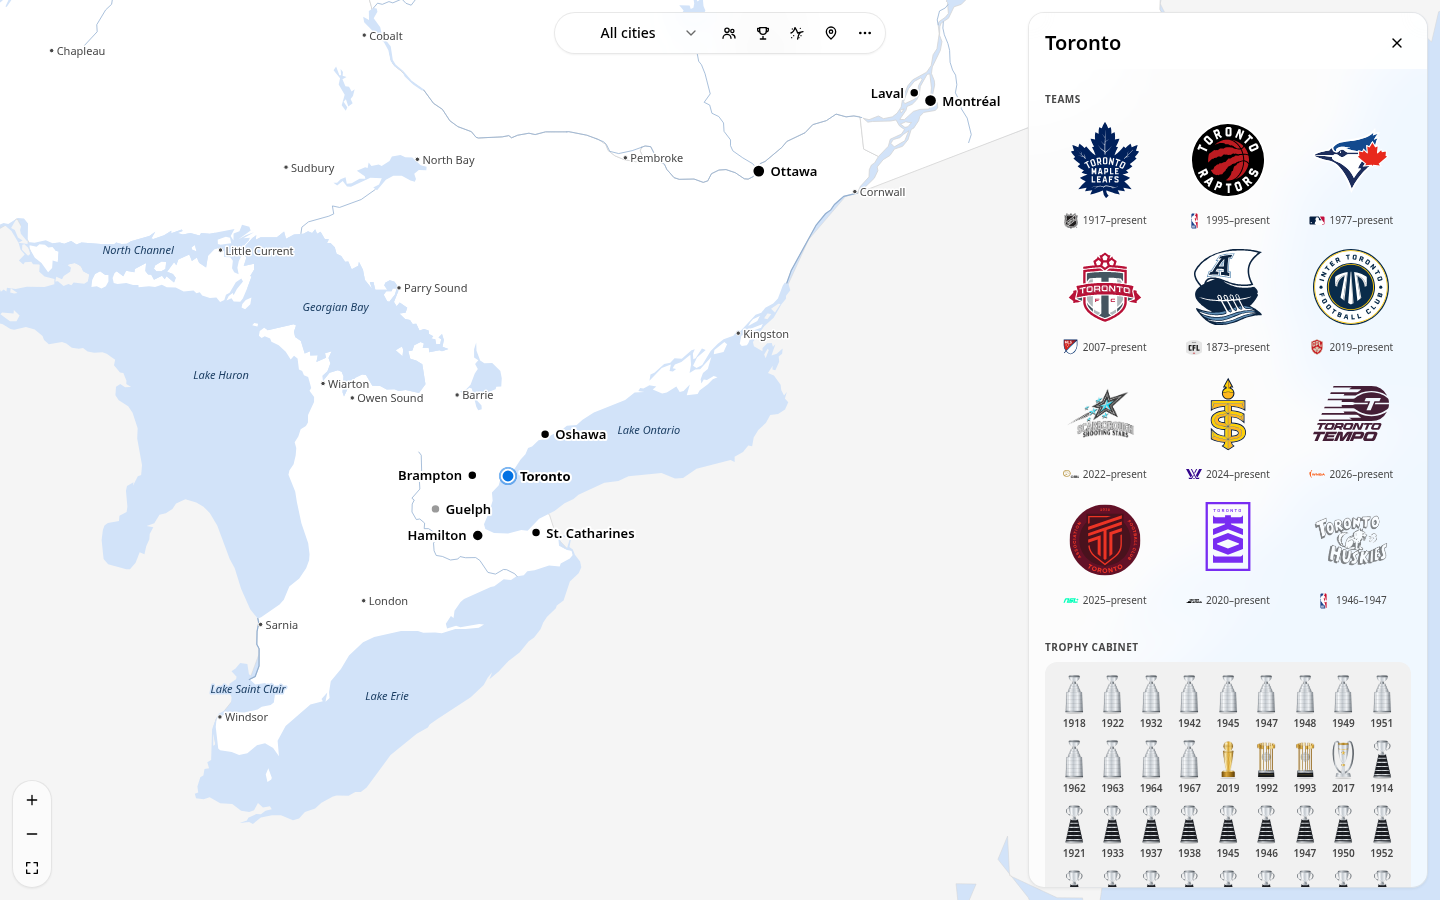
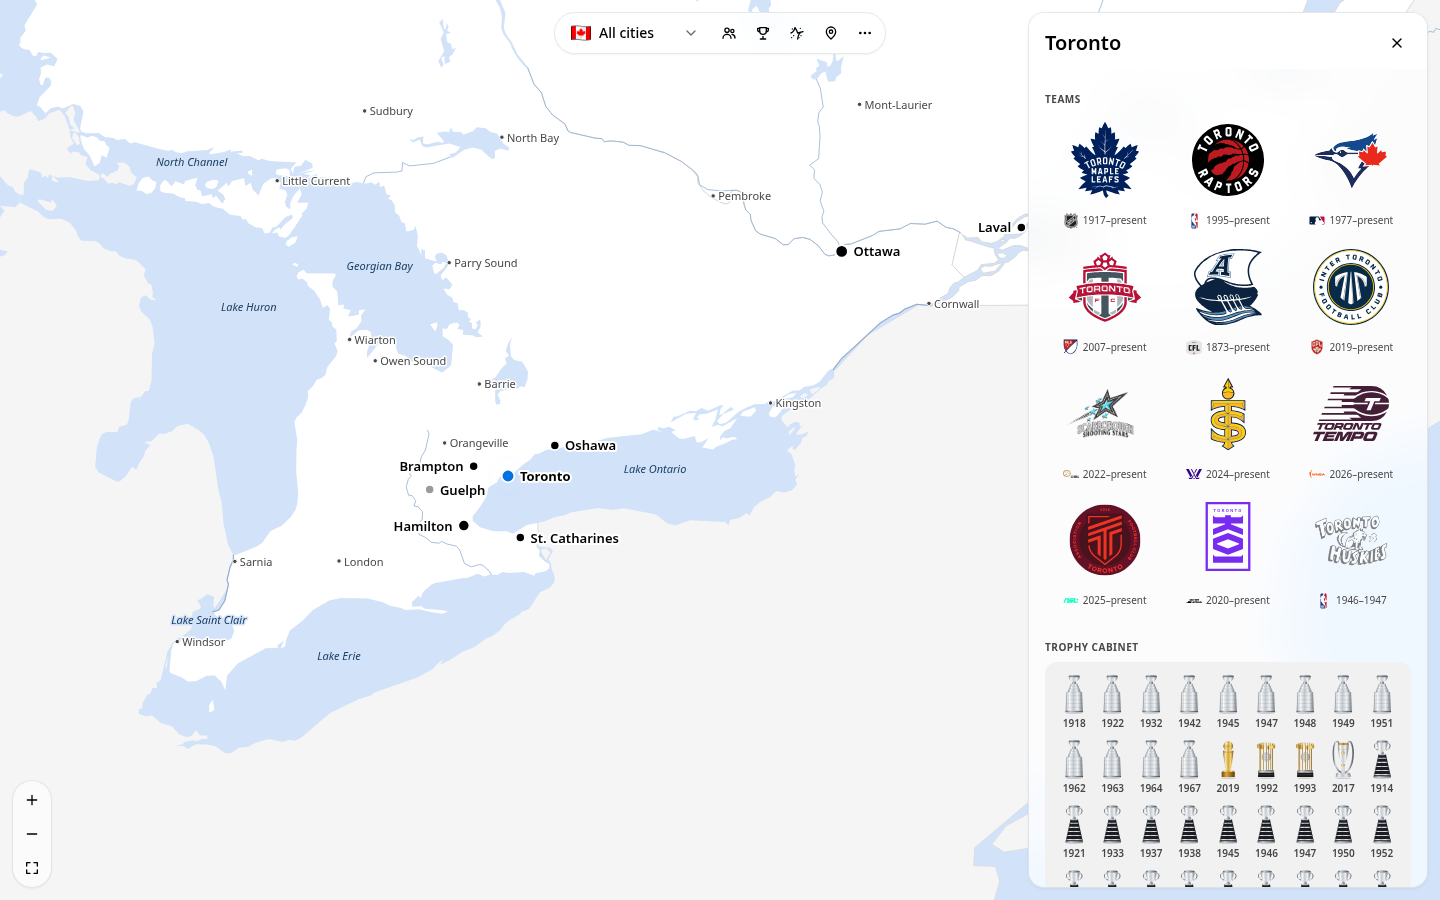
README: fresh screenshots and up-to-date features
- All 13 screenshots retaken from the current build (Mercator map, 1995
  Raptors takeover, flag, lightbox-era carousels, absolute-distance pin
  colours, new mobile layouts), plus two new ones: a lightbox and the phone's
  3D venue still with 'View in 3D'.
- Features rewritten for what changed: web-map projection and world zoom,
  mainland takeover, fixed-size animated dots, pin colours by real distance,
  the lightbox and its source links, on-demand 3D with stills, swipeable
  full-width carousels on phones.
- Project layout adds research/, lib/ and public/sportslogos/; credits lines
  match where photos and SportsLogos.net images are now credited.

diff --git a/README.md b/README.md
@@ -10,24 +10,24 @@ An interactive map of Canadian professional sports: every NHL, NBA, MLB, MLS, CF
 
 ### The map
 
-- **Canada, full screen.** The map opens on the band of sports cities across southern Canada, with the rest of the world filled in around it. Zoom in for a finer coastline, rivers, lakes, nearby towns and the names of seas, lakes, mountain ranges and islands.
-- **City dots.** Each sports city is a solid dot with its name: dark for cities with active teams, light grey for cities whose teams are all gone, blue (with a pulse) when selected. Nearby cities merge into one dot until you zoom in.
-- **League filter.** One dropdown shows all cities or a single league. With a league picked, a city that has one team in it opens straight to that team.
-- **Logo takeover.** When a team is the only current Canadian team in its league (the Raptors, the Blue Jays, the Tempo), its page fills Canada with its logo.
-- **Share links with their own previews.** Every team, city, league and map layer has a share link (for example [`/team/toronto-raptors/`](https://latxh.github.io/canada-sports-map/team/toronto-raptors/)) with its own preview card on X, Reddit, iMessage, Discord and Slack. Share hands out the link for what you're looking at (the native share sheet on phones); the league, layer and pin are also kept in the URL.
+- **Canada on a familiar web map.** The map opens on the band of sports cities across southern Canada, with the rest of the world around it. Zoom in for a finer coastline, rivers, lakes, nearby towns and the names of seas, lakes, mountain ranges and islands; zoom out to see the whole world.
+- **City dots.** Each sports city is a dot with its name: dark for cities with active teams, light grey for cities whose teams are all gone, blue with a pulse when selected. Nearby cities merge into one dot until you zoom in.
+- **League filter.** One dropdown shows all cities or a single league. With a league picked, a city with one team in it opens straight to that team.
+- **Logo takeover.** When a team is the only current Canadian team in its league, filtering to that league or opening its page fills mainland Canada with its logo (the Raptors get their original 1995 logo).
+- **Share links with their own previews.** Every team, city, league and map layer has its own link (for example [`/team/toronto-raptors/`](https://latxh.github.io/canada-sports-map/team/toronto-raptors/)) with a preview card made for it on X, Reddit, iMessage, Discord and Slack. Share hands out the link for what you're looking at, using the native share sheet on phones.
 
-| City panel with a 3D venue | Logo takeover |
+| City panel | Logo takeover |
 | --- | --- |
-| ![Toronto: teams, trophy cabinet and venues](docs/desktop-city.png) | ![The Raptors logo filling Canada](docs/takeover.png) |
+| ![Toronto: its teams and trophy cabinet](docs/desktop-city.png) | ![The 1995 Raptors logo filling Canada](docs/takeover.png) |
 
 ### Map layers
 
-Four round toggles sit beside the league filter; one is on at a time. The first three are living, ordered-dither patterns that ripple out from each city and twinkle (they hold still if you prefer reduced motion), drawn as part of the map so they move with it as you pan and zoom.
+Four round toggles sit beside the league filter, one on at a time. The first three are animated dot patterns that ripple out from each city and twinkle, drawn as part of the map so they move with it, with the dots staying the same small size at every zoom. They hold still if you prefer reduced motion.
 
-- **Population**: every one of Canada's 152 metro areas and agglomerations, sized by its 2021 Census population.
-- **Championships**: gold around each city, sized by the titles its teams have won, with the count.
+- **Population**: all 152 of Canada's metro areas and agglomerations, sized by 2021 Census population.
+- **Championships**: gold around each city, sized by the titles its teams have won.
 - **Closest team**: every spot in Canada coloured by its nearest team. Hover or tap for the team and the distance.
-- **Drop a pin**: tap anywhere (or use your location) and arcs fly to every city on the map, coloured by distance (green nearby, through yellow, to red from about 4,500 km away, so a pin far from Canada turns them all orange and red), with the nearest cities and the farthest one listed in kilometres.
+- **Drop a pin**: tap anywhere, or use your location, and arcs fly to every city on the map. They're coloured by real distance: green nearby, through yellow, to red from about 4,500 km, so a pin far from Canada turns them all red. A card lists the nearest cities and the farthest one.
 
 | Closest team (NHL) | Population |
 | --- | --- |
@@ -37,23 +37,26 @@ Four round toggles sit beside the league filter; one is on at a time. The first 
 
 ### City and team panels
 
-- **City**: its teams as logo tiles (league and years underneath), a trophy cabinet with one trophy per title, and its active venues in a dropdown, each with a 3D model (or a photo) and cards for year opened, capacity, surface and roof.
-- **Team**: a hero card, the trophy cabinet, every venue the team has called home, carousels of logos, uniforms and playing surfaces through the years (from SportsLogos.net, used with permission), a photo carousel, and links to Wikipedia and logo archives. Opened from a city, it has a back button to that city.
+- **City**: its teams as logo tiles with league and years, a trophy cabinet with one trophy per title, and its active venues, each with a 3D model (or a photo) and its year opened, capacity, surface and roof.
+- **Team**: a hero card, the trophy cabinet, every venue the team has called home, and carousels of its logos, uniforms and playing surfaces through the years (from SportsLogos.net, used with permission), plus photos and links to Wikipedia and its full logo history. Opened from a city, it has a back button to that city.
+- **Lightbox**: tap any logo, uniform, court, rink or photo to see it large over the app, step through the rest of that carousel, and follow its source link.
 - **Trophies**: original illustrations of all twelve championship trophies, drawn from photos of the real ones.
 
-| Team page | Uniforms, rinks and photos |
+| Team page | Logos, uniforms, rinks and photos |
 | --- | --- |
 | ![The Montréal Canadiens' page](docs/desktop-team.png) | ![Carousels on the Canadiens' page](docs/desktop-team-carousels.png) |
 
+![A Raptors uniform open in the lightbox, with the app behind it](docs/lightbox.png)
+
 ### 3D venues
 
-Each of the 24 stadiums and arenas that NHL, NBA, MLB, MLS, CFL and CPL teams play in today has its own hand-built, low-poly model, drawn to scale from OpenStreetMap footprints and reference photos. Rogers Centre's roof opens and closes, BC Place's roof gathers under its 36 masts, and fields switch markings for the sport you're looking at. Models open full screen. On phones, a pre-rendered still shows first and the 3D model loads when you tap **View in 3D**; desktops load it as soon as the card scrolls into view, and it only animates while it's on screen.
+Each of the 24 stadiums and arenas that NHL, NBA, MLB, MLS, CFL and CPL teams play in today has its own hand-built, low-poly model, drawn to scale from OpenStreetMap footprints and reference photos. Rogers Centre's roof opens and closes, BC Place's roof gathers under its 36 masts, and fields switch markings for the sport you're looking at. Desktops load the model when its card scrolls into view; phones show a pre-rendered still until you tap **View in 3D**. Models open full screen, and only animate while they're on screen.
 
 ![The 24 current venues as low-poly 3D models](docs/stadium-models.jpg)
 
 ### Link-preview cards
 
-Each share link shows a card made for it: a team's logo, league, years and trophies beside its territory on the map; a city's teams around a glow on its spot; a league's Canadian teams and the closest-team map for that league; or a full map for each layer.
+Each share link has a card made for it: a team's logo, league, years and trophies beside its territory on the map; a city's teams around a glow on its spot; a league's Canadian teams on its closest-team map; or a full map for each layer.
 
 | Team | City | League |
 | --- | --- | --- |
@@ -61,11 +64,11 @@ Each share link shows a card made for it: a team's logo, league, years and troph
 
 ### Everywhere
 
-Light and dark mode, a draggable bottom sheet on phones, keyboard-accessible map markers, and no axe-core violations.
+Light and dark mode, a draggable bottom sheet on phones with swipeable, full-width carousels, keyboard-accessible map markers, and no axe-core violations. Built to be light on phones: 3D, panels and the detailed map load only when they're needed.
 
-| Dark mode | Phone | Phone, closest team |
-| --- | --- | --- |
-| ![Vancouver in dark mode](docs/desktop-dark.png) | ![Montréal on a phone](docs/mobile-city.png) | ![Closest team on a phone](docs/mobile-closest.png) |
+| Dark mode | Phone | Phone, closest team | Phone, venue |
+| --- | --- | --- | --- |
+| ![Vancouver in dark mode](docs/desktop-dark.png) | ![Montréal on a phone](docs/mobile-city.png) | ![Closest team on a phone](docs/mobile-closest.png) | ![A venue still with View in 3D](docs/mobile-venue.png) |
 
 ## Coverage
 
@@ -91,7 +94,7 @@ The data was reviewed in November 2026 and covers 83 teams in 20 cities:
 ```bash
 npm install
 npm run dev        # http://localhost:5173
-npm test           # dataset integrity tests
+npm test           # data, asset and 3D model tests
 npm run build      # type-check + production build into dist/
 ```
 
@@ -101,18 +104,21 @@ Requires Node 22.13 or later.
 
 ```
 src/
-  data/            # typed dataset: leagues, cities, venues, teams/*.ts, population, media (+ integrity tests)
+  data/            # typed dataset: leagues, cities, venues, teams/*.ts, population, media, sportslogos (+ tests)
   data/geo/        # simplified Natural Earth TopoJSON (built by scripts/build-geo.mjs)
   components/      # SportsMap (d3-geo + d3-zoom), DitherLayer, map tools, panels, credits
   visuals/         # original SVG illustrations: trophies, badges, uniforms, playing surfaces
-  three/           # 3D: kit/ (low-poly parts), models/ (one per current venue), viewer (lazy-loaded)
+  three/           # 3D: kit/ (low-poly parts), models/ (one per current venue), viewer and stills (lazy-loaded)
   og/              # share links: manifest (paths, titles, descriptions) and the ?og= preview cards
-  lib/analytics.ts # Google Analytics page views and events
+  lib/             # helpers: analytics (Google Analytics), venues, colour, SportsLogos.net loader
+research/
+  notes.json       # written research behind the data (not bundled)
 public/
   stills/          # pre-rendered stills of the 3D venue models (scripts/render-stills.mjs)
   og/              # rendered preview cards, one per share link (scripts/render-og.mjs)
-  logos/           # current team and league logos (from Wikipedia)
+  logos/           # current team and league logos (from Wikipedia; two from SportsLogos.net)
   media/           # historical logos and photos (from Wikipedia and Wikimedia Commons)
+  sportslogos/     # logo, uniform and playing-surface history (SportsLogos.net, with permission)
 ```
 
 ### Editing data
@@ -161,11 +167,11 @@ npm run og                                          # all cards, or: npm run og 
 
 - **[Wikipedia](https://en.wikipedia.org/)**: team, venue and championship facts, paraphrased (CC BY-SA 4.0). Every team and venue links to its article.
 - **Logos**: the files each team's and league's Wikipedia article uses. `src/data/logos.ts` and `src/data/media.ts` record each file's page and licence. Most are non-free trademarks, used on Wikipedia under fair use.
-- **[Wikimedia Commons](https://commons.wikimedia.org/)**: team and venue photos, all freely licensed and credited under each photo and in the app's Credits.
+- **[Wikimedia Commons](https://commons.wikimedia.org/)**: team and venue photos, all freely licensed, credited with author and licence in the lightbox and in the app's Credits.
 - **[Statistics Canada](https://www150.statcan.gc.ca/t1/tbl1/en/tv.action?pid=9810000301)**: 2021 Census population for the Population layer.
 - **[Natural Earth](https://www.naturalearthdata.com/)**: countries, provinces, coastlines, lakes, rivers, towns and geography names (public domain).
 - **[OpenStreetMap](https://www.openstreetmap.org/copyright)**: venue footprints and dimensions used as references for the 3D models (© OpenStreetMap contributors, ODbL).
-- **[SportsLogos.net](https://www.sportslogos.net/)**: logo, uniform and playing-surface history images (`public/sportslogos/`), used with permission. Opening any image shows its source link, the Credits list SportsLogos.net, and each team links to its full history there.
+- **[SportsLogos.net](https://www.sportslogos.net/)**: logo, uniform and playing-surface history images (`public/sportslogos/`), used with permission. Each image links to its page there from the lightbox, and each team links to its full history.
 - **[Google Analytics](https://marketingplatform.google.com/about/analytics/)**: visit counts (see Analytics above).
 - **[Astryx](https://github.com/facebook/astryx)**, **[three.js](https://threejs.org/)** / **[React Three Fiber](https://r3f.docs.pmnd.rs/)**, **[d3](https://d3js.org/)**, **[TopoJSON](https://github.com/topojson/topojson)**.
 
